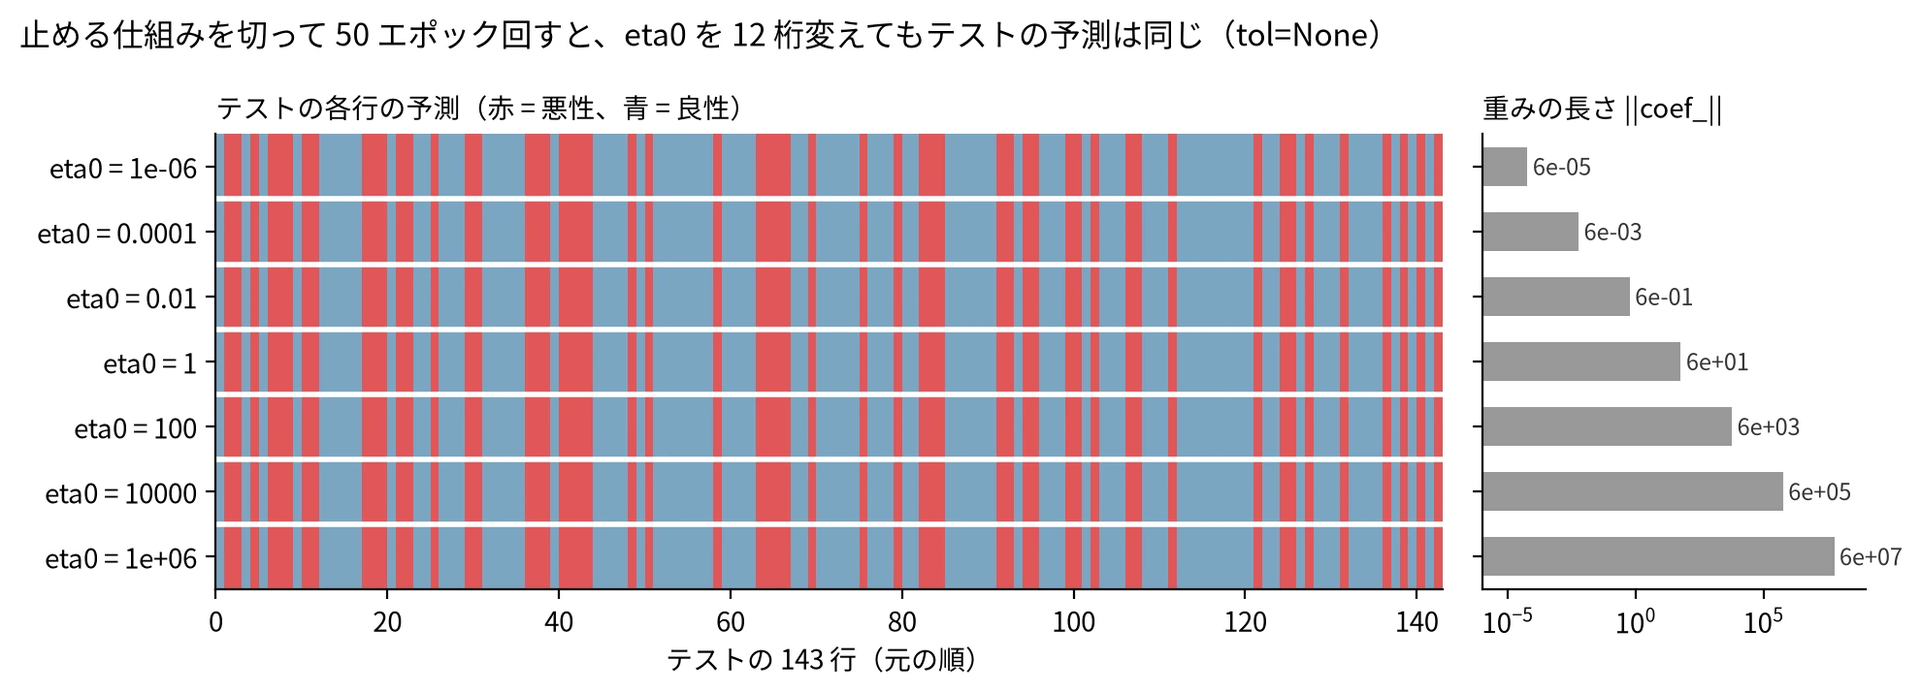
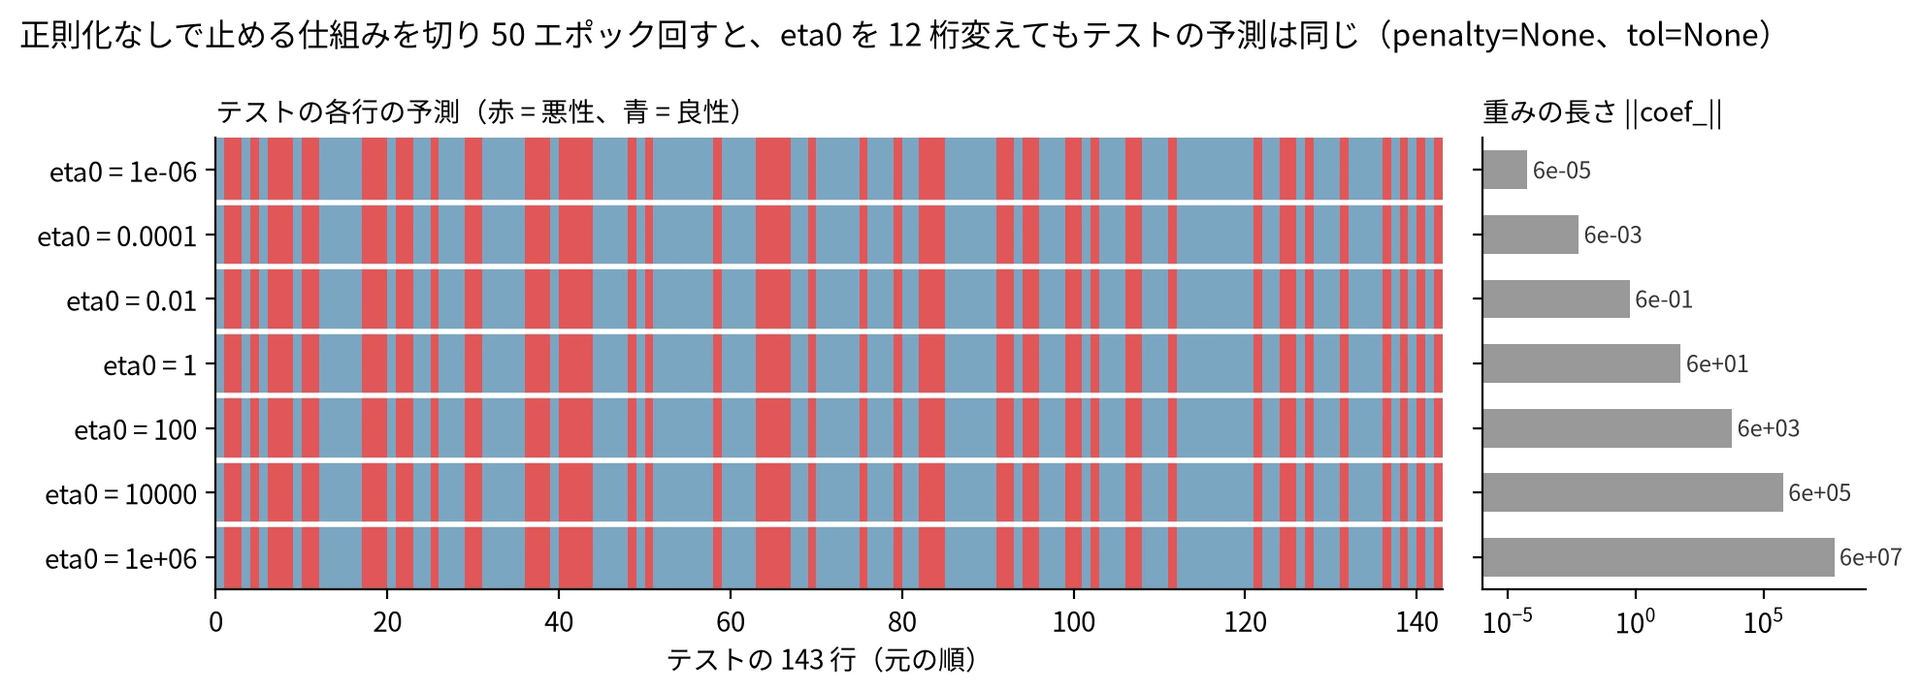
docs(ml): rewrite perceptron note around identical predictions across a 12-digit range of eta0 with zero init and no regularization

diff --git a/projects/ml/scripts/notes/perceptron_gen.py b/projects/ml/scripts/notes/perceptron_gen.py
@@ -99,7 +99,7 @@ for i, v in enumerate(norms):
     axn.text(v * 1.6, i, f"{v:.0e}", va="center", fontsize=8.5, color=INK)
 axn.set_title("重みの長さ ||coef_||", loc="left", fontsize=10)
 axn.set_xticks([1e-5, 1e0, 1e5])
-fig.suptitle("止める仕組みを切って 50 エポック回すと、eta0 を 12 桁変えてもテストの予測は同じ（tol=None）", x=0.01, ha="left", fontsize=11.5)
+fig.suptitle("正則化なしで止める仕組みを切り 50 エポック回すと、eta0 を 12 桁変えてもテストの予測は同じ（penalty=None、tol=None）", x=0.01, ha="left", fontsize=11.5)
 fig.tight_layout()
 save(fig, "pc_cover.webp")
 

diff --git a/notes-quality/checklists/ml__perceptron.md b/notes-quality/checklists/ml__perceptron.md
@@ -4,11 +4,12 @@
 |---|---|
 | Skill ツールで debimate-visual-notes を起動した | はい（create-ml-notes も起動） |
 | 読解の確認（初学者役の別エージェントが上から読む）の回数と、最後の判定（A/B/C）と残った指摘 | 1 回（.note-review/interest-review/stage3/ml__perceptron.read1.md、判定 B、指摘 15 件）。書く担当 2 回目で全て直した: 表紙の実験が tol=None で 50 周と冒頭に明記、損失の平均を使う前に定義、平均化を表の前で 1 文定義、分岐予測の導入を「CPU でも使われている」に変え限界の話は模擬の直前へ、2 ビットのカウンタを pc_storage の前で定義、「Exynos M1」と書き Scaled Hashed Perceptron の仕組みの句を削除、模擬の抜粋に N_ITER・K・THETA・N_OTHER・hist・table・names・miss の値と意味、「N 個前」の数え方、R と γ を描いた図 pc_gamma を追加、author_grep で 0 件の語（かすめる・渡り切る・一番うまい線・どの線を返す・1 本に決まる・効きそうな・頭打ち・足し引き・道筋・模様・1 行も）を言い換え。2 回目（stage3/ml__perceptron.read2.md、判定 B、指摘 5 件）を書く担当 3 回目で全て直した: γ をマージンで説明する循環を「全ての点を正しく分ける線のうち一番近い点までの距離が最も大きい線を選び、その距離を γ と呼ぶ」に、引く線の節で 2 次元の赤 40・青 40 の点を X6・y6 として文とコードで用意、閾値で更新する規則を Exynos の段落の後から 2 ビットのカウンタの定義の後へ移動、平均化の定義の末に SGDClassifier で代用する理由を前置き、author_grep で 0 件の語（手がかり・中心部分／抜き出した・持つ数・囲み・待てば・外れやすい・見込みが高く・広い所・見出し「予測から消える」）を本人の語（元にする・抜粋・保持する数・囲んで・回し続ければ・外れる・可能性が高く・真ん中・「学習率で予測が変わらない理由」）に。図は変えていない。3 回目（stage3/ml__perceptron.read3.md、判定 B、指摘 6 件）を書く担当 4 回目で全て直した: 閾値で更新する規則を表の大きさの話の間から外し、閾値 30 を出す段落の頭へ移して主語を「表に並べた 2 つのパーセプトロンは」にし、最初の節の規則（正しく答えた行では何もしない）との違いを明記、γ の名付けを「その距離をマージンと呼び、γ で表します」の 1 文に、SVM の C を初出（breast_cancer の分離可能の段落）で「誤りをどこまで許すかを決める引数で、大きいほど許しません」と定義、模擬の抜粋の変数の説明に kind（2 通り）と rng を追加、author_grep で 0 件の「回し続ければ」を「更新を続ければ」（続ければ は本人 2 件）に。図は変えていない |
-| 事実確認（一次資料と照合。別エージェントか自分か）と、直した件数 | 自分で照合 9 件・直し 3 件。scikit-learn 1.9.1 の Perceptron の既定値（inspect.signature で max_iter=1000・tol=0.001・n_iter_no_change=5・random_state=0）、止め方（_sgd_fast.pyx.tp の objective_sum / train_count > best_objective - tol）、Perceptron() と SGDClassifier の同等（文書の Notes）、警告が出ないこと（warnings を記録して 0 件）、Novikoff 1962（スキャンの 1 ページ目で題と会議名）、Jiménez・Lin 2001（PDF で、線形の資源・XOR of the third and fifth most recent branches・gshare が勝つ分岐）、Exynos の ISCA 2020 論文（PDF で SHP、M1 の 8 表 × 1,024、外した時と閾値以下の時に更新）。直し: γ を「切片の 1 を足した x で測る」と明記、alt の「2〜3 桁下」を「1〜3 桁下」、平均化を「1 本に決まる」と書いていた所を正解率の話に分けた。別エージェントの事実確認はワークフローの確かめ役に回す。別エージェントの事実確認 1 回目（stage3/ml__perceptron.fact1.md、反証 2・未確認 1）を書く担当 5 回目で全て直した: Jiménez・Lin の論文に「3 個前と 5 個前」の例は無かった（PDF を pdftotext で全文検索し、あるのは AND は学べて排他的論理和は学べないという一般論と、線形分離できない分岐が多いベンチマークでは 1 つを除き gshare が勝つ測定）ので、論文の主張はその 2 点に改め、3・5 個前は本記事の選んだ例と分かる文に。学習率を更新ごとに変える時も成り立たない、を「損失の下がり方に応じて変える時（learning_rate="adaptive" など）」に絞った（invscaling では成り立つ）。Minsky・Papert の DOI は 2017 年の再刊と明記。図は変えておらず、fact1 の再実行で 10 枚が画素単位で一致・本文の数値も同じ回の出力と一致。 読み比べ cmp1（3 体）の誤りの疑いを書く担当 7 回目で一次資料と照合した: Jiménez・Lin の HPCA 2001 の PDF を pdftotext -raw で読み直すと、5.5 節に「the exclusive-OR of the third and fifth most recent branches」の例があった（fact1 の「例は無い」は抽出漏れによる誤り）ので、模擬の B を論文の例として書き直した。逆に「AND は学べる」の文は本文に無く、「完全に学べるのは線で分けられる関数だけ」（3 節）に改めた。「1 つを除いて表の方が低い」は Figure 8（512K バイトの予算）の説明文で確認し、条件を本文に添えた。閾値以下で更新する規則は論文 3.3 節の学習則と一致。gshare の表の引き方（履歴とアドレスの組み合わせ）に合わせ「履歴をそのまま番号に」を直し、gshare の原典（McFarling の技術報告）はリンク先が 404 なので名前を出さなかった。eta0 の探索の勧め（penalty との矛盾）、ロジスティック回帰の説明（全ての行で更新する）、XOR の分岐の文（排他的論理和のように線で分けられない組み合わせ）、平均化側も既定の tol=1e-3 で止まること、γ を点を作った線で測るので上限が大きめに出ること、を直した |
+| 事実確認（一次資料と照合。別エージェントか自分か）と、直した件数 | 自分で照合 9 件・直し 3 件。scikit-learn 1.9.1 の Perceptron の既定値（inspect.signature で max_iter=1000・tol=0.001・n_iter_no_change=5・random_state=0）、止め方（_sgd_fast.pyx.tp の objective_sum / train_count > best_objective - tol）、Perceptron() と SGDClassifier の同等（文書の Notes）、警告が出ないこと（warnings を記録して 0 件）、Novikoff 1962（スキャンの 1 ページ目で題と会議名）、Jiménez・Lin 2001（PDF で、線形の資源・XOR of the third and fifth most recent branches・gshare が勝つ分岐）、Exynos の ISCA 2020 論文（PDF で SHP、M1 の 8 表 × 1,024、外した時と閾値以下の時に更新）。直し: γ を「切片の 1 を足した x で測る」と明記、alt の「2〜3 桁下」を「1〜3 桁下」、平均化を「1 本に決まる」と書いていた所を正解率の話に分けた。別エージェントの事実確認はワークフローの確かめ役に回す。別エージェントの事実確認 1 回目（stage3/ml__perceptron.fact1.md、反証 2・未確認 1）を書く担当 5 回目で全て直した: Jiménez・Lin の論文に「3 個前と 5 個前」の例は無かった（PDF を pdftotext で全文検索し、あるのは AND は学べて排他的論理和は学べないという一般論と、線形分離できない分岐が多いベンチマークでは 1 つを除き gshare が勝つ測定）ので、論文の主張はその 2 点に改め、3・5 個前は本記事の選んだ例と分かる文に。学習率を更新ごとに変える時も成り立たない、を「損失の下がり方に応じて変える時（learning_rate="adaptive" など）」に絞った（invscaling では成り立つ）。Minsky・Papert の DOI は 2017 年の再刊と明記。図は変えておらず、fact1 の再実行で 10 枚が画素単位で一致・本文の数値も同じ回の出力と一致。 読み比べ cmp1（3 体）の誤りの疑いを書く担当 7 回目で一次資料と照合した: Jiménez・Lin の HPCA 2001 の PDF を pdftotext -raw で読み直すと、5.5 節に「the exclusive-OR of the third and fifth most recent branches」の例があった（fact1 の「例は無い」は抽出漏れによる誤り）ので、模擬の B を論文の例として書き直した。逆に「AND は学べる」の文は本文に無く、「完全に学べるのは線で分けられる関数だけ」（3 節）に改めた。「1 つを除いて表の方が低い」は Figure 8（512K バイトの予算）の説明文で確認し、条件を本文に添えた。閾値以下で更新する規則は論文 3.3 節の学習則と一致。gshare の表の引き方（履歴とアドレスの組み合わせ）に合わせ「履歴をそのまま番号に」を直し、gshare の原典（McFarling の技術報告）はリンク先が 404 なので名前を出さなかった。eta0 の探索の勧め（penalty との矛盾）、ロジスティック回帰の説明（全ての行で更新する）、XOR の分岐の文（排他的論理和のように線で分けられない組み合わせ）、平均化側も既定の tol=1e-3 で止まること、γ を点を作った線で測るので上限が大きめに出ること、を直した 8 回目（読み比べ cmp1 の 3 体の誤りの疑い）: Perceptron に learning_rate 引数が無いことを scikit-learn 1.9.1 の inspect.signature で確認し、adaptive の文を SGDClassifier の話に直した（SGDClassifier のリンクを初出のこの文へ移した）。breast_cancer の γ=0.0402 は生成元（w_svm = coef_ と intercept_ をまとめ、1 を足した x で測る）を読み、その測り方と、SVM は b を除いて測るので上限が大きめに出ることを本文に書いた。Jiménez・Lin の Figure 8 は PDF を pdftotext で読み、512K の予算で、線形分離できない分岐が多いベンチマークのうち 1 つを除き gshare が勝つという本文と一致した。言い過ぎの直し: 題・pc_cover の図題・caption・alt に正則化なしを足し、冒頭に並べ替えの乱数をそろえたことを足した。結びの eta0 を外せる条件に coef_init を与えないことを足した。pc_lines の「ほぼ同じ所」を「近い所」に、211 行の分離可能を「標準化した学習データ 426 行」に |
 | 文体の照合: omokage nao-tech の点数と、本人の実文（最近の記事・weeknotes）と比べて直した言い回しの例 | omokage 89。author_grep で「止まり」（本人 3）「見分け」（本人 3）を確認。「確かめ」は使っていない。「止めの仕組み」を「止める仕組み」に |
 | 表記: 太字 0、「を、」0、ユーザー/サーバー/ブラウザ等の表記、形式名詞 | gate_note.py OK。太字 0、「を、」0（「線形 SVM を、誤りを〜」を語順で直した）、「の」の連続 0（no_chain の 20 か所を言い換え） |
-| 図: 全て WebP、背景が白、図の文字に太字なし、caption と alt あり | 10 枚とも WebP・白背景・figure の shortcode で caption と alt。古い SVG 4 枚（perceptron_architecture・learning_trajectory・mlp_xor・separability）を消し、front matter の cardImage を外した（表紙は本文の最初の pc_cover.webp）。後退の確認（regress1）の S1 で pc_hidden.webp（手で組んだ OR・NAND・AND の構造、入力の 4 点と h1・h2 の線、隠れ層が移した先と出力の線）を追加し 11 枚。白背景・caption と alt あり。 7 回目: pc_cover の図題に「止める仕組みを切って 50 エポック回すと」「tol=None」を入れ、caption・alt にも条件を足した。pc_storage の縦軸を「1 つの分岐に要る数」から「カウンタ・重みの数」、題を「履歴を延ばした時の増え方」に変えた。pc_margin の凡例を「上限（点を作った線で測る）」に。生成元を回し直し、出力は 6 回目の gen_out.txt と一致（.note-review/work/perceptron/w7/gen_out.txt）。3 枚を Read で見た |
-| 図の入れ方（scripts/textruns.py の結果）: 700 字以上の文字だけの区間 0 個、200 字超の段落は基準の Wallet（5 個）並み。長さは削らなくてよいが、文字だけの区間は図か区切りで割る | 700 字以上の区間 0 個、200 字超の段落 6 個（4 回目の後は 8 個。足した定義の分）。分岐予測の模擬の前（875 字）は 3 つの予測器を Markdown の表にして割った。6 回目の後も 700 字以上の区間 0 個、200 字超の段落 8 個。 7 回目の後は 700 字以上の区間 0 個、200 字超の段落 5 個 |
+| 訳語: 本文で英語と併記した訳語（関門が「語（english）」から拾う）と、題材の中心の用語ごとに、英語の語・分野の日本語資料（訳書・公式文書の日本語版・主要な解説）での言い方・URL。分野の言い方と違えば本文を直し、避ける語を style/terms.tsv に足す | XOR → 排他的論理和（XOR）。パーセプトロンの入門の解説は「排他的論理和」「XOR」をそのまま使う（https://ja.wikipedia.org/wiki/排他的論理和 、https://yusukehashimotolab.github.io/AI-Knowledge-Notes/knowledge/jp/ML/neural-networks-introduction/chapter1-perceptron.html ）。seed（random seed）→ シード（seed）。初稿の「乱数の種」は terms.tsv の避ける語なので、本文 4 行（5 か所）を「シード」に直した（https://weel.co.jp/media/innovator/image-genai-seed/ 、glossary.tsv の修正済みの行）。図の生成元・図のラベルには「乱数の種」は無かった |
+| 図: 全て WebP、背景が白、図の文字に太字なし、caption と alt あり | 10 枚とも WebP・白背景・figure の shortcode で caption と alt。古い SVG 4 枚（perceptron_architecture・learning_trajectory・mlp_xor・separability）を消し、front matter の cardImage を外した（表紙は本文の最初の pc_cover.webp）。後退の確認（regress1）の S1 で pc_hidden.webp（手で組んだ OR・NAND・AND の構造、入力の 4 点と h1・h2 の線、隠れ層が移した先と出力の線）を追加し 11 枚。白背景・caption と alt あり。 7 回目: pc_cover の図題に「止める仕組みを切って 50 エポック回すと」「tol=None」を入れ、caption・alt にも条件を足した。pc_storage の縦軸を「1 つの分岐に要る数」から「カウンタ・重みの数」、題を「履歴を延ばした時の増え方」に変えた。pc_margin の凡例を「上限（点を作った線で測る）」に。生成元を回し直し、出力は 6 回目の gen_out.txt と一致（.note-review/work/perceptron/w7/gen_out.txt）。3 枚を Read で見た 8 回目: pc_cover の図題に「正則化なし」「penalty=None」を足した。生成元を回し直し、出力は 7 回目の gen_out.txt と一致（.note-review/work/perceptron/w9/gen_out.txt）、変わった図は pc_cover だけ。pc_cover と pc_lines を Read で見た |
+| 図の入れ方（scripts/textruns.py の結果）: 700 字以上の文字だけの区間 0 個、200 字超の段落は基準の Wallet（5 個）並み。長さは削らなくてよいが、文字だけの区間は図か区切りで割る | 700 字以上の区間 0 個、200 字超の段落 6 個（4 回目の後は 8 個。足した定義の分）。分岐予測の模擬の前（875 字）は 3 つの予測器を Markdown の表にして割った。6 回目の後も 700 字以上の区間 0 個、200 字超の段落 8 個。 7 回目の後は 700 字以上の区間 0 個、200 字超の段落 5 個 8 回目の後は 700 字以上の区間 0 個、200 字超の段落 7 個 |
 | 図の中の文字は日本語（コードの識別子・仕様の固有名・単位を除く）。英語のラベルが残っていない | はい。英語は eta0・coef_・tol・random_state・average・Perceptron・MLPClassifier・LogisticRegression・SVM・XOR・C だけ |
 | 図ごとの確認（別エージェントの読解の確認で、図 1 枚ずつ）: (1) 理解を促すか（読者が何を掴めるか、文章の言い直しでないか）、(2) 公式の図・実画面を出典付きで引用した方が伝わらないか、(3) 文章と食い違っていないか（用語・数値・要素） | 読解の確認 1 回目で 9 枚を 1 枚ずつ見てもらい、指摘 4 枚を直した: pc_updates のコマの文を「囲んだ点を誤った」に、pc_cover をテストの元の順に並べて縞にした（alt も）、pc_stop に止める判定の損失の平均（verbose=1 の Avg. loss、エポック 3 の 0.139 が最小、4〜8 の 5 回を塗る）を上の段に追加、pc_branch の 0% の棒に最低の高さを付け、本文の出力に「13 個前と同じ × 積の列」の行を足した。新しい pc_gamma（16 点、γ=0.169、R=1.375）を追加。生成元を回し直し、他の数値は gen_out.txt と一致（gen_out2.txt）。10 枚を Read で見た。書く担当 6 回目で pc_hidden.webp を追加し、生成元を回して Read で見た（文字が小さかったので幅 9.6 インチ・字 10〜12pt に直した）。他の 10 枚は前回の出力とバイト単位で一致 |
 | 図のラベルと本文の用語の併記（図の直後の初出） | 図と本文の語を揃えた（重みの長さ、実際に更新した回数、上限 (R/γ)²、既定（tol=1e-3）、誤り 0 まで（tol=None）、平均化（average=True）、表・パーセプトロン・パーセプトロン＋積の列、隠れ層） |
@@ -23,6 +24,6 @@
 | 版・digest・計測中の負荷の断り書きを本文から lab か details へ移したこと | 版は「実験は scikit-learn 1.9.1 と NumPy 2.5.4」の 1 文だけ。digest・負荷の断り書きは無し |
 | 相互リンク: 他のノートへ足した数、逆向きに足すべきリンクの提案 | 本文から 13 本（gradient-descent-sgd・hyperparameter・vector-matrix-ops・activation-functions・backpropagation・standardization・regularization・logistic-regression・median・svm・overfitting・loss-functions・cross-validation・/notes/generative-ai/mixture-of-experts/）。逆向きは svm の「直線は無数に引けます」の後に 1 文足した。既に 6 本（activation-functions・linear-regression・categorical-encoding・logistic-regression・backpropagation・mixture-of-experts）から本記事へリンクがあり、見出しへのリンクは無い。regress1 の M3 で partial-derivative-gradient へのリンクを戻した（ロジスティック回帰の損失の段落）。backpropagation と mixture-of-experts が本記事を多層パーセプトロンの説明先にしている点は、隠れ層の節を戻して受け皿にした |
 | 内部リンクが全て実在、外部リンクが 200 | 内部は hugo の出力（.note-review/work/perceptron/public）に実在。外部は curl で 200 か DOI の 302。Rosenblatt の DOI（APA）は 403 を返すが、ボット対策で、DOI 自体は前の版から引き継いだもの |
-| PC 幅 1280 とダークモードで撮影して確かめた（スマホは横はみ出しだけ） | はい。.note-review/work/perceptron/pc2.png・pc2_dark.png（1280、--force-dark-mode）、sp2.png（390）。予測器の表は 1 行ずつに収まる。6 回目: .note-review/work/perceptron/w6/pc.png・pc_dark.png（hugo server ポート 1398、撮影後に停止）で隠れ層の節を見た。 7 回目: .note-review/work/perceptron/w7/pc.png・pc_dark.png（hugo server ポート 1399、撮影後に停止）で冒頭と details を見た |
-| ページと /notes/ が 200 | hugo --minify --gc -d .note-review/work/perceptron/public が成功。hugo server（ポート 1397）で記事と /notes/ が 200、撮影後に停止。 7 回目もポート 1399 で記事（/ml/ml/perceptron/）と /notes/ が 200 |
-| 本文の字数（前 → 後） | 一から書き直し。style_check.sh の読者向け本文 6138 字 → 14621 字（1 回目）→ 15382 字（2 回目、読解の確認の指摘で定義と抜粋の説明を足した分） → 15782 字（4 回目、C・kind・rng の定義と閾値の規則の説明を足した分） → 17217 字（6 回目、regress1 の指摘で隠れ層の手組み・XOR の巡回・普遍近似定理・partial_fit と one-vs-rest・標準化の理由を戻した分）。 → 17713 字（7 回目、読み比べの指摘で題・冒頭・結びの条件を足し、模擬のコードに変数の定義を入れて説明の段落を消した分） |
+| PC 幅 1280 とダークモードで撮影して確かめた（スマホは横はみ出しだけ） | はい。.note-review/work/perceptron/pc2.png・pc2_dark.png（1280、--force-dark-mode）、sp2.png（390）。予測器の表は 1 行ずつに収まる。6 回目: .note-review/work/perceptron/w6/pc.png・pc_dark.png（hugo server ポート 1398、撮影後に停止）で隠れ層の節を見た。 7 回目: .note-review/work/perceptron/w7/pc.png・pc_dark.png（hugo server ポート 1399、撮影後に停止）で冒頭と details を見た 8 回目: .note-review/work/perceptron/w9/pc.png・pc_dark.png（hugo server ポート 1409、撮影後に停止） |
+| ページと /notes/ が 200 | hugo --minify --gc -d .note-review/work/perceptron/public が成功。hugo server（ポート 1397）で記事と /notes/ が 200、撮影後に停止。 7 回目もポート 1399 で記事（/ml/ml/perceptron/）と /notes/ が 200 8 回目もポート 1409 で記事と /notes/ が 200 |
+| 本文の字数（前 → 後） | 一から書き直し。style_check.sh の読者向け本文 6138 字 → 14621 字（1 回目）→ 15382 字（2 回目、読解の確認の指摘で定義と抜粋の説明を足した分） → 15782 字（4 回目、C・kind・rng の定義と閾値の規則の説明を足した分） → 17217 字（6 回目、regress1 の指摘で隠れ層の手組み・XOR の巡回・普遍近似定理・partial_fit と one-vs-rest・標準化の理由を戻した分）。 → 17713 字（7 回目、読み比べの指摘で題・冒頭・結びの条件を足し、模擬のコードに変数の定義を入れて説明の段落を消した分） → 17801 字（8 回目、題と結びに条件を足し、245・459・461 行の断り書きの重複と 130・136 行の注記を削った分） |
